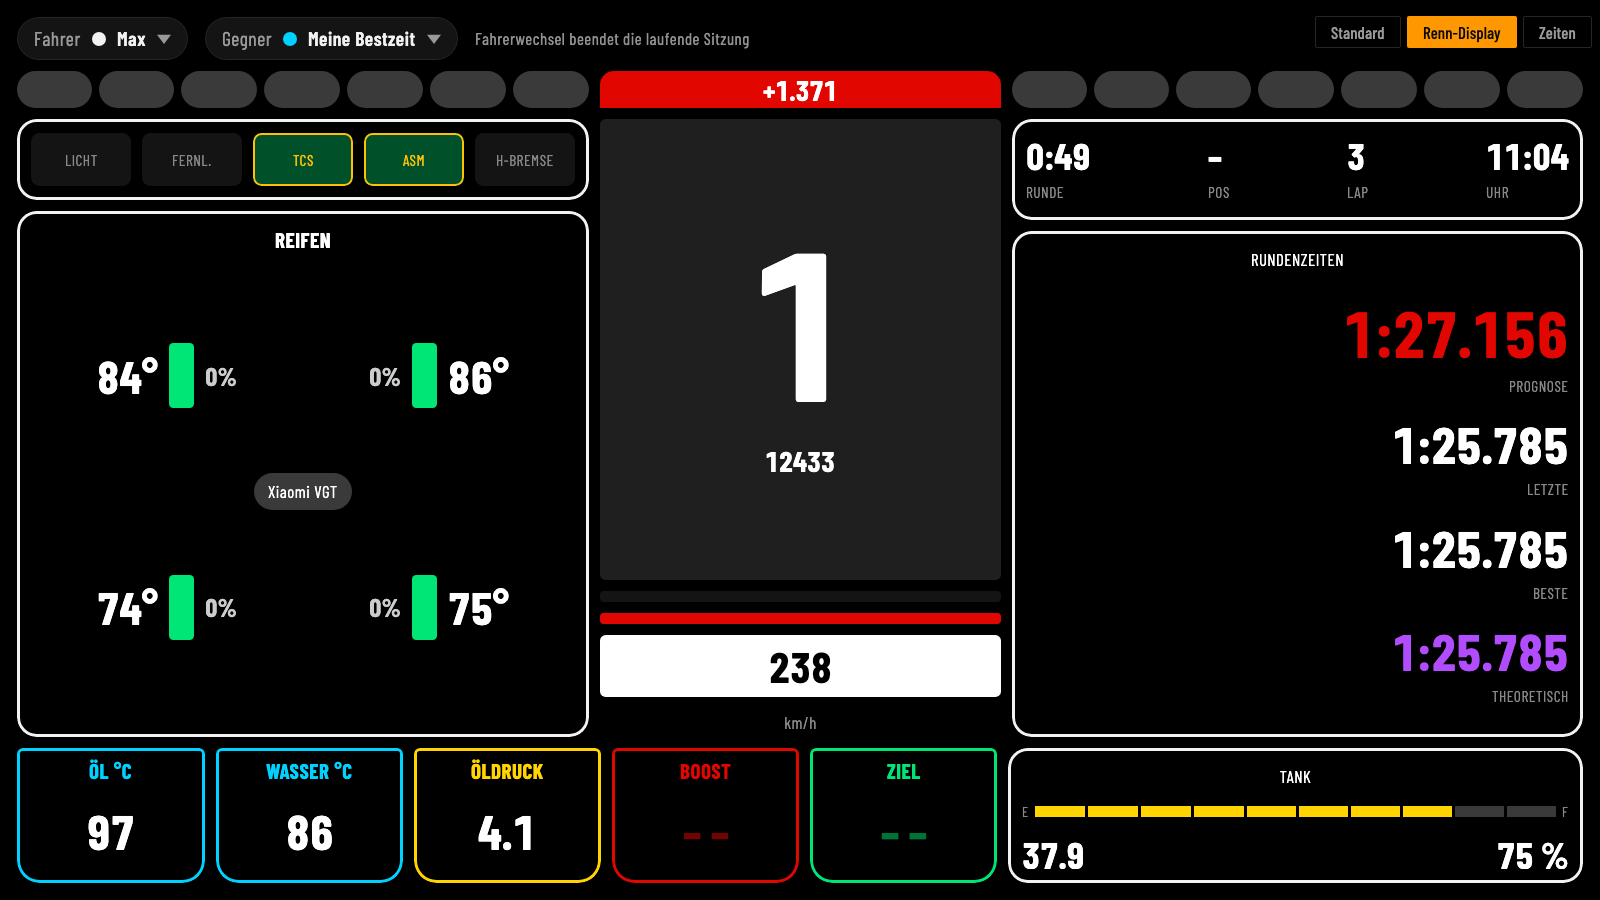
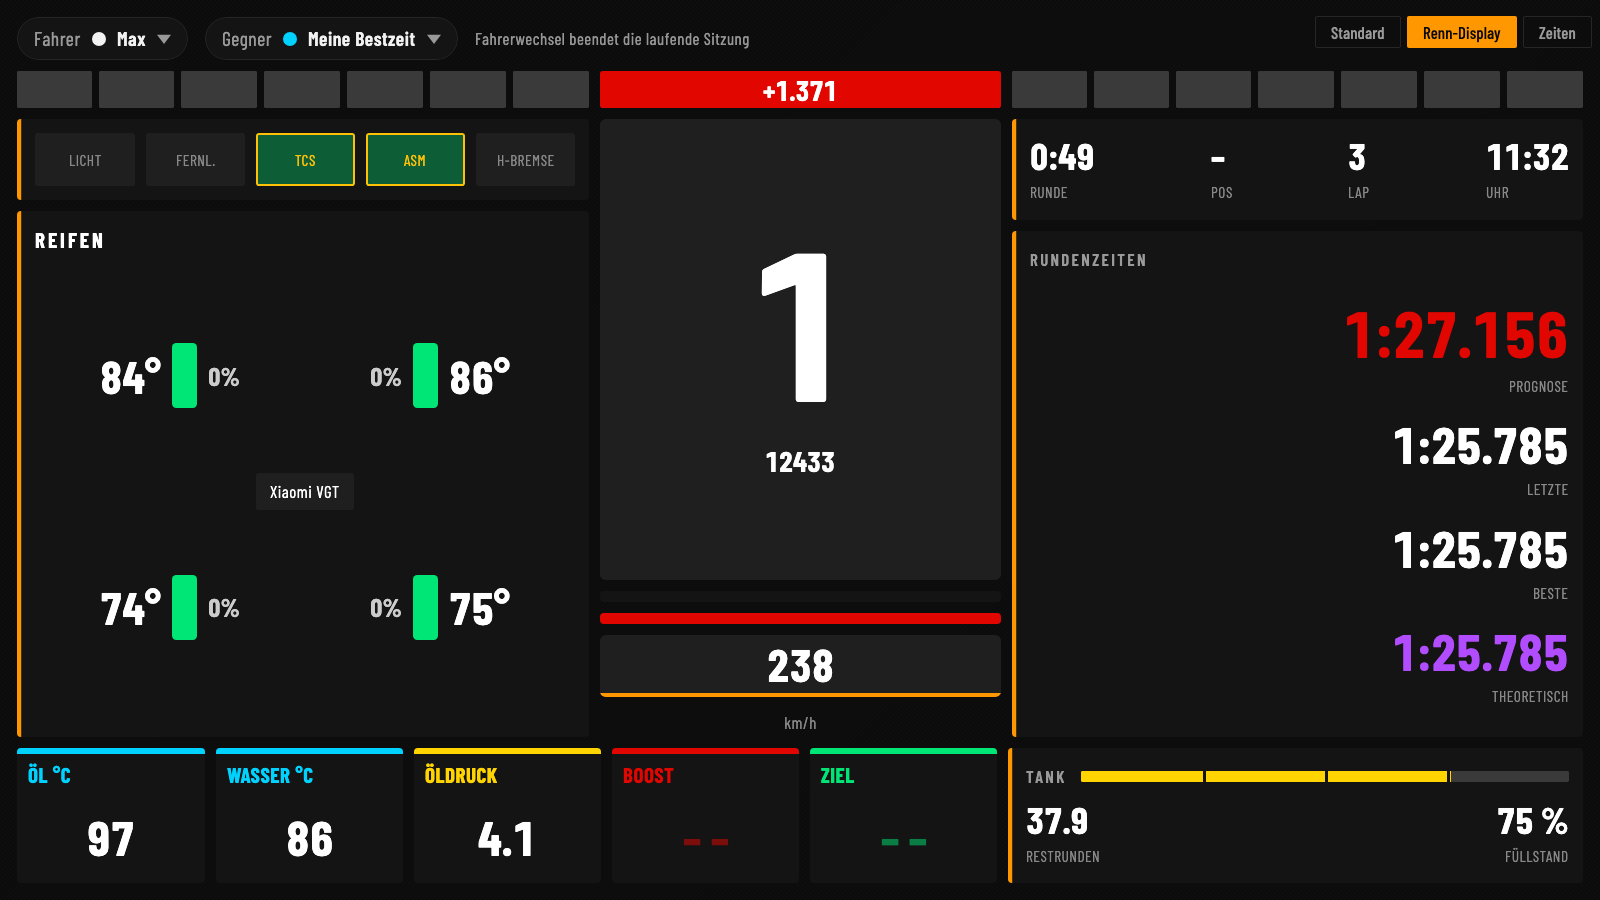
feat(ui): race display in the app's own look: carbon panels with an edge, angular lights, striped value tiles

diff --git a/shared/src/commonMain/kotlin/de/bavaco/gt7/ui/RaceDisplay.kt b/shared/src/commonMain/kotlin/de/bavaco/gt7/ui/RaceDisplay.kt
@@ -21,12 +21,14 @@ import androidx.compose.runtime.Composable
 import androidx.compose.ui.Alignment
 import androidx.compose.ui.Modifier
 import androidx.compose.ui.draw.clip
+import androidx.compose.ui.draw.drawBehind
+import androidx.compose.ui.geometry.Size
 import androidx.compose.ui.graphics.Color
 import androidx.compose.ui.text.font.FontWeight
 import androidx.compose.ui.text.style.TextAlign
-import androidx.compose.ui.unit.Dp
 import androidx.compose.ui.unit.TextUnit
 import androidx.compose.ui.unit.dp
+import androidx.compose.ui.unit.em
 import androidx.compose.ui.unit.sp
 import de.bavaco.gt7.session.LiveState
 import de.bavaco.gt7.session.Opponent
@@ -39,8 +41,7 @@ import kotlin.time.Clock
 import kotlinx.datetime.TimeZone
 import kotlinx.datetime.toLocalDateTime
 
-private val Black = Color.Black
-private val Frame = RaceColors.TextPrimary
+private val PanelShape = RoundedCornerShape(4.dp)
 private val Dim = RaceColors.Dim
 private val LedYellow = RaceColors.LapA
 private val LampGreen = RaceColors.Gain.copy(alpha = 0.35f)
@@ -48,7 +49,7 @@ private val ColdBlue = RaceColors.LapB
 private val BoxCyan = RaceColors.LapB
 private val BoxYellow = RaceColors.LapA
 
-/** Race display after the "Lovely Dashboard": shift lights, gear centre stage, tyres left, lap times right. */
+/** Race display: shift lights, gear centre stage, tyres left, lap times right; carbon panels like the rest of the app. */
 @Composable
 fun RaceDisplay(
     state: LiveState,
@@ -62,7 +63,7 @@ fun RaceDisplay(
 ) {
     val f = state.frame
     val labels = opponentLabels(selection.opponent, selection.active?.name ?: "")
-    BoxWithConstraints(Modifier.fillMaxSize().background(Black)) {
+    BoxWithConstraints(Modifier.fillMaxSize().carbon()) {
         val s = dashboardScale(maxWidth.value, maxHeight.value, LocalCompact.current)
         val gap = 8.dp * s
         Column(Modifier.fillMaxSize().padding(12.dp * s), verticalArrangement = Arrangement.spacedBy(gap)) {
@@ -110,7 +111,7 @@ private fun ShiftLeds(f: TelemetryFrame?, outsideFirst: Boolean, scale: Float, m
                 LedColor.Yellow -> LedYellow
                 LedColor.Red -> BadRed
             }
-            Box(Modifier.weight(1f).fillMaxHeight().clip(RoundedCornerShape(50)).background(if (limiter) color.copy(alpha = blink) else color))
+            Box(Modifier.weight(1f).fillMaxHeight().clip(RoundedCornerShape(1.dp * scale)).background(if (limiter) color.copy(alpha = blink) else color))
         }
     }
 }
@@ -118,26 +119,34 @@ private fun ShiftLeds(f: TelemetryFrame?, outsideFirst: Boolean, scale: Float, m
 @Composable
 private fun DeltaBox(deltaMs: Int?, label: String, scale: Float, modifier: Modifier) {
     val color = if (deltaMs == null) Dim else if (deltaMs < 0) GoodGreen else BadRed
-    Box(modifier.clip(RoundedCornerShape(topStart = 10.dp * scale, topEnd = 10.dp * scale)).background(color), contentAlignment = Alignment.Center) {
+    Box(modifier.clip(RoundedCornerShape(2.dp * scale)).background(color), contentAlignment = Alignment.Center) {
         Text(if (deltaMs == null) label else formatDelta(deltaMs), style = digits(20.sp * scale), color = Color.White, maxLines = 1)
     }
 }
 
-/** Rounded, light-framed panel with an optional title set into the top edge. */
+/** Filled carbon panel with an [edge] stripe on the left and an optional title at the top left. */
 @Composable
-private fun Section(title: String?, scale: Float, modifier: Modifier, titleSize: Int = 12, content: @Composable ColumnScope.() -> Unit) {
+private fun Section(
+    title: String?, scale: Float, modifier: Modifier, titleSize: Int = 12, edge: Color = RaceColors.Accent,
+    content: @Composable ColumnScope.() -> Unit,
+) {
     Column(
-        modifier.clip(RoundedCornerShape(14.dp * scale)).border(1.5.dp * scale, Frame, RoundedCornerShape(14.dp * scale)).padding(10.dp * scale),
+        modifier.clip(PanelShape).background(RaceColors.Surface)
+            .drawBehind { drawRect(edge, size = Size(3.dp.toPx() * scale, size.height)) }
+            .padding(start = 13.dp * scale, top = 10.dp * scale, end = 10.dp * scale, bottom = 10.dp * scale),
         verticalArrangement = Arrangement.spacedBy(4.dp * scale),
     ) {
-        if (title != null) {
-            Text(
-                title, Modifier.fillMaxWidth(), fontSize = titleSize.sp * scale, fontWeight = if (titleSize > 12) FontWeight.Bold else null,
-                color = Color.White, textAlign = TextAlign.Center, maxLines = 1,
-            )
-        }
+        if (title != null) SectionTitle(title, scale, titleSize)
         content()
     }
+}
+
+@Composable
+private fun SectionTitle(title: String, scale: Float, size: Int = 12) {
+    Text(
+        title, fontSize = size.sp * scale, fontWeight = if (size > 12) FontWeight.Bold else FontWeight.SemiBold,
+        letterSpacing = 0.14.em, color = if (size > 12) Color.White else RaceColors.TextMuted, maxLines = 1,
+    )
 }
 
 @Composable
@@ -157,8 +166,8 @@ private fun Lamps(f: TelemetryFrame?, scale: Float, modifier: Modifier) {
 @Composable
 private fun RowScope.Lamp(text: String, on: Boolean, color: Color, scale: Float) {
     Box(
-        Modifier.weight(1f).height(38.dp * scale).clip(RoundedCornerShape(6.dp * scale)).background(if (on) LampGreen else Panel)
-            .border(1.dp * scale, if (on) color else Color.Transparent, RoundedCornerShape(6.dp * scale)),
+        Modifier.weight(1f).height(38.dp * scale).clip(RoundedCornerShape(2.dp * scale)).background(if (on) LampGreen else RaceColors.SurfaceRaised)
+            .border(1.dp * scale, if (on) color else Color.Transparent, RoundedCornerShape(2.dp * scale)),
         contentAlignment = Alignment.Center,
     ) {
         Text(text, fontSize = 11.sp * scale, color = if (on) color else Color.Gray, maxLines = 1, softWrap = false)
@@ -182,7 +191,7 @@ private fun Tires(state: LiveState, carName: String?, scale: Float, modifier: Mo
             }
             if (carName != null) {
                 Text(
-                    carName, Modifier.align(Alignment.Center).clip(RoundedCornerShape(50)).background(Dim).padding(horizontal = 10.dp * scale, vertical = 3.dp * scale),
+                    carName, Modifier.align(Alignment.Center).clip(RoundedCornerShape(2.dp * scale)).background(RaceColors.SurfaceRaised).padding(horizontal = 10.dp * scale, vertical = 3.dp * scale),
                     fontSize = 12.sp * scale, color = Color.White, maxLines = 1,
                 )
             }
@@ -228,8 +237,11 @@ private fun CenterStack(state: LiveState, unit: SpeedUnit, scale: Float, modifie
         }
         HBar(f?.throttle ?: 0f, GoodGreen, height = 8.dp * scale)
         HBar(f?.brake ?: 0f, BadRed, height = 8.dp * scale)
-        Box(Modifier.fillMaxWidth().height(44.dp * scale).clip(RoundedCornerShape(4.dp * scale)).background(Color.White), contentAlignment = Alignment.Center) {
-            Text(f?.let { formatSpeed(it.speedMps, unit) } ?: "–", style = digits(30.sp * scale), color = Black)
+        Column(Modifier.fillMaxWidth().clip(RoundedCornerShape(4.dp * scale)).background(RaceColors.SurfaceRaised)) {
+            Box(Modifier.fillMaxWidth().height(41.dp * scale), contentAlignment = Alignment.Center) {
+                Text(f?.let { formatSpeed(it.speedMps, unit) } ?: "–", style = digits(32.sp * scale), color = Color.White)
+            }
+            Box(Modifier.fillMaxWidth().height(3.dp * scale).background(RaceColors.Accent))
         }
         Text(if (unit == SpeedUnit.KMH) "km/h" else "mph", Modifier.fillMaxWidth(), fontSize = 12.sp * scale, color = Color.Gray, textAlign = TextAlign.Center)
     }
@@ -283,14 +295,10 @@ private fun TimeLine(value: String, label: String, color: Color, size: TextUnit,
 
 @Composable
 private fun RowScope.ValueBox(label: String, value: String?, color: Color, scale: Float) {
-    Column(
-        Modifier.weight(1f).fillMaxHeight().clip(RoundedCornerShape(bottomStart = 16.dp * scale, bottomEnd = 16.dp * scale, topStart = 4.dp * scale, topEnd = 4.dp * scale))
-            .border(1.5.dp * scale, color, RoundedCornerShape(bottomStart = 16.dp * scale, bottomEnd = 16.dp * scale, topStart = 4.dp * scale, topEnd = 4.dp * scale))
-            .padding(6.dp * scale),
-        horizontalAlignment = Alignment.CenterHorizontally,
-    ) {
-        Text(label, fontSize = 15.sp * scale, fontWeight = FontWeight.Bold, color = color, maxLines = 1)
-        Box(Modifier.weight(1f), contentAlignment = Alignment.Center) {
+    Column(Modifier.weight(1f).fillMaxHeight().clip(PanelShape).background(RaceColors.Surface)) {
+        Box(Modifier.fillMaxWidth().height(4.dp * scale).background(color))
+        Text(label, Modifier.padding(start = 8.dp * scale, top = 4.dp * scale), fontSize = 15.sp * scale, fontWeight = FontWeight.Bold, color = color, maxLines = 1)
+        Box(Modifier.fillMaxWidth().weight(1f), contentAlignment = Alignment.Center) {
             Text(value ?: "– –", style = digits(34.sp * scale), color = if (value == null) color.copy(alpha = 0.5f) else Color.White, maxLines = 1)
         }
     }
@@ -300,11 +308,10 @@ private fun RowScope.ValueBox(label: String, value: String?, color: Color, scale
 private fun FuelPanel(state: LiveState, scale: Float, modifier: Modifier) {
     val f = state.frame
     val fraction = f?.takeIf { it.fuelCapacity > 0f }?.let { it.fuelLevel / it.fuelCapacity } ?: 0f
-    Section("TANK", scale, modifier) {
-        Row(verticalAlignment = Alignment.CenterVertically, horizontalArrangement = Arrangement.spacedBy(4.dp * scale)) {
-            Text("E", fontSize = 10.sp * scale, color = Color.Gray)
-            FuelScale(fraction, scale, Modifier.weight(1f))
-            Text("F", fontSize = 10.sp * scale, color = Color.Gray)
+    Section(null, scale, modifier) {
+        Row(verticalAlignment = Alignment.CenterVertically, horizontalArrangement = Arrangement.spacedBy(10.dp * scale)) {
+            SectionTitle("TANK", scale)
+            FuelBar(fraction, scale, Modifier.weight(1f))
         }
         Row(Modifier.fillMaxWidth().weight(1f), horizontalArrangement = Arrangement.SpaceBetween, verticalAlignment = Alignment.Bottom) {
             Stat(state.fuelLapsRemaining?.let { formatDecimal(it, 1) } ?: "–", "RESTRUNDEN", scale)
@@ -316,13 +323,17 @@ private fun FuelPanel(state: LiveState, scale: Float, modifier: Modifier) {
     }
 }
 
-/** Segmented E..F bar like a fuel gauge. */
+/** Tank level as one bar, with quarter marks. */
 @Composable
-private fun FuelScale(fraction: Float, scale: Float, modifier: Modifier, segments: Int = 10, height: Dp = 8.dp) {
-    Row(modifier.height(height * scale), horizontalArrangement = Arrangement.spacedBy(2.dp * scale)) {
-        repeat(segments) { i ->
-            val on = fraction * segments > i
-            Box(Modifier.weight(1f).fillMaxHeight().background(if (on) LedYellow else Dim))
+private fun FuelBar(fraction: Float, scale: Float, modifier: Modifier) {
+    Box(modifier.height(8.dp * scale).clip(RoundedCornerShape(1.dp * scale)).background(Dim)) {
+        Box(Modifier.fillMaxWidth(fraction.coerceIn(0f, 1f)).fillMaxHeight().background(LedYellow))
+        Row(Modifier.fillMaxSize()) {
+            repeat(4) { i ->
+                Box(Modifier.weight(1f).fillMaxHeight()) {
+                    if (i > 0) Box(Modifier.width(2.dp * scale).fillMaxHeight().background(RaceColors.Surface))
+                }
+            }
         }
     }
 }
